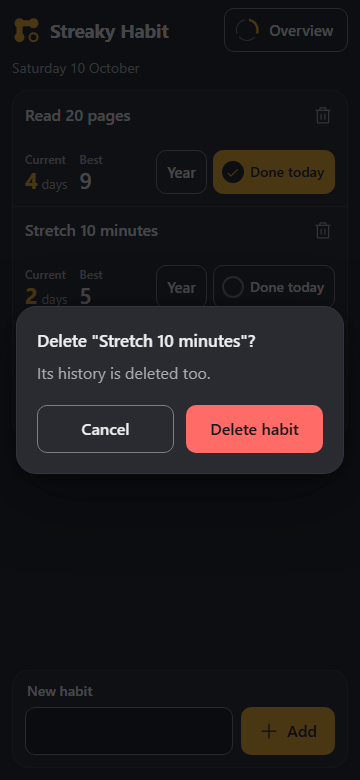
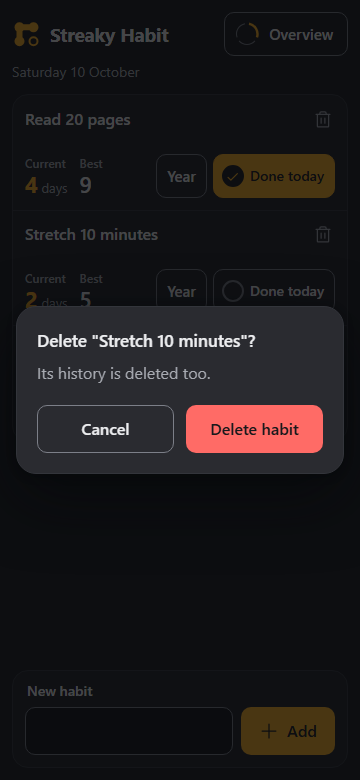
design(v1.1.0): set the phone header top to 12 px in every golden
On the owner's ruling, in system.css and every golden. The check
passes 97 of 97.

diff --git a/docs/design-explore/v1.1.0/final/day-editor.html b/docs/design-explore/v1.1.0/final/day-editor.html
@@ -20,7 +20,8 @@
    Changes from f2: (1) the Prototype states tab and its tokens are gone, so the header loses its "proto" area.
    (2) Ruling 1, a thin not-done segment on a hovered or open day draws in --ink-soft (5.17 on --raise, was 2.97).
    (3) Ruling 2, every ring and bead number is SVG text on the baseline at the shape's centre, dropped .352em, proportional figures.
-   (4) The last block stands in for showModal() in the static goldens and is not needed by the app. */
+   (4) The last block stands in for showModal() in the static goldens and is not needed by the app.
+   (5) Owner's ruling 2026-10-11, the app column's top padding on a phone is 12 px (f2 had 8 beside its tab). */
 :root{
   /* colour */
   --bg:#18191C;
@@ -107,7 +108,7 @@ svg.ph{ width:var(--icon); height:var(--icon); fill:currentColor; flex:none; }
   display:flex; flex-direction:column; gap:var(--s-3);
   height:100vh; height:100dvh; min-height:480px;
   max-width:640px; margin:0 auto;
-  padding:var(--s-2) var(--s-4) max(var(--s-3), env(safe-area-inset-bottom));
+  padding:var(--s-3) var(--s-4) max(var(--s-3), env(safe-area-inset-bottom));
 }
 .main{ flex:1; min-height:0; display:flex; flex-direction:column; gap:var(--s-3); }
 

diff --git a/docs/design-explore/v1.1.0/final/delete-dialog.html b/docs/design-explore/v1.1.0/final/delete-dialog.html
@@ -18,7 +18,8 @@
    Changes from f2: (1) the Prototype states tab and its tokens are gone, so the header loses its "proto" area.
    (2) Ruling 1, a thin not-done segment on a hovered or open day draws in --ink-soft (5.17 on --raise, was 2.97).
    (3) Ruling 2, every ring and bead number is SVG text on the baseline at the shape's centre, dropped .352em, proportional figures.
-   (4) The last block stands in for showModal() in the static goldens and is not needed by the app. */
+   (4) The last block stands in for showModal() in the static goldens and is not needed by the app.
+   (5) Owner's ruling 2026-10-11, the app column's top padding on a phone is 12 px (f2 had 8 beside its tab). */
 :root{
   /* colour */
   --bg:#18191C;
@@ -105,7 +106,7 @@ svg.ph{ width:var(--icon); height:var(--icon); fill:currentColor; flex:none; }
   display:flex; flex-direction:column; gap:var(--s-3);
   height:100vh; height:100dvh; min-height:480px;
   max-width:640px; margin:0 auto;
-  padding:var(--s-2) var(--s-4) max(var(--s-3), env(safe-area-inset-bottom));
+  padding:var(--s-3) var(--s-4) max(var(--s-3), env(safe-area-inset-bottom));
 }
 .main{ flex:1; min-height:0; display:flex; flex-direction:column; gap:var(--s-3); }
 

diff --git a/docs/design-explore/v1.1.0/final/overview-year.html b/docs/design-explore/v1.1.0/final/overview-year.html
@@ -20,7 +20,8 @@
    Changes from f2: (1) the Prototype states tab and its tokens are gone, so the header loses its "proto" area.
    (2) Ruling 1, a thin not-done segment on a hovered or open day draws in --ink-soft (5.17 on --raise, was 2.97).
    (3) Ruling 2, every ring and bead number is SVG text on the baseline at the shape's centre, dropped .352em, proportional figures.
-   (4) The last block stands in for showModal() in the static goldens and is not needed by the app. */
+   (4) The last block stands in for showModal() in the static goldens and is not needed by the app.
+   (5) Owner's ruling 2026-10-11, the app column's top padding on a phone is 12 px (f2 had 8 beside its tab). */
 :root{
   /* colour */
   --bg:#18191C;
@@ -107,7 +108,7 @@ svg.ph{ width:var(--icon); height:var(--icon); fill:currentColor; flex:none; }
   display:flex; flex-direction:column; gap:var(--s-3);
   height:100vh; height:100dvh; min-height:480px;
   max-width:640px; margin:0 auto;
-  padding:var(--s-2) var(--s-4) max(var(--s-3), env(safe-area-inset-bottom));
+  padding:var(--s-3) var(--s-4) max(var(--s-3), env(safe-area-inset-bottom));
 }
 .main{ flex:1; min-height:0; display:flex; flex-direction:column; gap:var(--s-3); }
 

diff --git a/docs/design-explore/v1.1.0/final/overview.html b/docs/design-explore/v1.1.0/final/overview.html
@@ -20,7 +20,8 @@
    Changes from f2: (1) the Prototype states tab and its tokens are gone, so the header loses its "proto" area.
    (2) Ruling 1, a thin not-done segment on a hovered or open day draws in --ink-soft (5.17 on --raise, was 2.97).
    (3) Ruling 2, every ring and bead number is SVG text on the baseline at the shape's centre, dropped .352em, proportional figures.
-   (4) The last block stands in for showModal() in the static goldens and is not needed by the app. */
+   (4) The last block stands in for showModal() in the static goldens and is not needed by the app.
+   (5) Owner's ruling 2026-10-11, the app column's top padding on a phone is 12 px (f2 had 8 beside its tab). */
 :root{
   /* colour */
   --bg:#18191C;
@@ -107,7 +108,7 @@ svg.ph{ width:var(--icon); height:var(--icon); fill:currentColor; flex:none; }
   display:flex; flex-direction:column; gap:var(--s-3);
   height:100vh; height:100dvh; min-height:480px;
   max-width:640px; margin:0 auto;
-  padding:var(--s-2) var(--s-4) max(var(--s-3), env(safe-area-inset-bottom));
+  padding:var(--s-3) var(--s-4) max(var(--s-3), env(safe-area-inset-bottom));
 }
 .main{ flex:1; min-height:0; display:flex; flex-direction:column; gap:var(--s-3); }
 

diff --git a/docs/design-explore/v1.1.0/final/states.html b/docs/design-explore/v1.1.0/final/states.html
@@ -17,7 +17,8 @@
    Changes from f2: (1) the Prototype states tab and its tokens are gone, so the header loses its "proto" area.
    (2) Ruling 1, a thin not-done segment on a hovered or open day draws in --ink-soft (5.17 on --raise, was 2.97).
    (3) Ruling 2, every ring and bead number is SVG text on the baseline at the shape's centre, dropped .352em, proportional figures.
-   (4) The last block stands in for showModal() in the static goldens and is not needed by the app. */
+   (4) The last block stands in for showModal() in the static goldens and is not needed by the app.
+   (5) Owner's ruling 2026-10-11, the app column's top padding on a phone is 12 px (f2 had 8 beside its tab). */
 :root{
   /* colour */
   --bg:#18191C;
@@ -104,7 +105,7 @@ svg.ph{ width:var(--icon); height:var(--icon); fill:currentColor; flex:none; }
   display:flex; flex-direction:column; gap:var(--s-3);
   height:100vh; height:100dvh; min-height:480px;
   max-width:640px; margin:0 auto;
-  padding:var(--s-2) var(--s-4) max(var(--s-3), env(safe-area-inset-bottom));
+  padding:var(--s-3) var(--s-4) max(var(--s-3), env(safe-area-inset-bottom));
 }
 .main{ flex:1; min-height:0; display:flex; flex-direction:column; gap:var(--s-3); }
 

diff --git a/docs/design-explore/v1.1.0/final/today-empty.html b/docs/design-explore/v1.1.0/final/today-empty.html
@@ -17,7 +17,8 @@
    Changes from f2: (1) the Prototype states tab and its tokens are gone, so the header loses its "proto" area.
    (2) Ruling 1, a thin not-done segment on a hovered or open day draws in --ink-soft (5.17 on --raise, was 2.97).
    (3) Ruling 2, every ring and bead number is SVG text on the baseline at the shape's centre, dropped .352em, proportional figures.
-   (4) The last block stands in for showModal() in the static goldens and is not needed by the app. */
+   (4) The last block stands in for showModal() in the static goldens and is not needed by the app.
+   (5) Owner's ruling 2026-10-11, the app column's top padding on a phone is 12 px (f2 had 8 beside its tab). */
 :root{
   /* colour */
   --bg:#18191C;
@@ -104,7 +105,7 @@ svg.ph{ width:var(--icon); height:var(--icon); fill:currentColor; flex:none; }
   display:flex; flex-direction:column; gap:var(--s-3);
   height:100vh; height:100dvh; min-height:480px;
   max-width:640px; margin:0 auto;
-  padding:var(--s-2) var(--s-4) max(var(--s-3), env(safe-area-inset-bottom));
+  padding:var(--s-3) var(--s-4) max(var(--s-3), env(safe-area-inset-bottom));
 }
 .main{ flex:1; min-height:0; display:flex; flex-direction:column; gap:var(--s-3); }
 

diff --git a/docs/design-explore/v1.1.0/final/today-full.html b/docs/design-explore/v1.1.0/final/today-full.html
@@ -18,7 +18,8 @@
    Changes from f2: (1) the Prototype states tab and its tokens are gone, so the header loses its "proto" area.
    (2) Ruling 1, a thin not-done segment on a hovered or open day draws in --ink-soft (5.17 on --raise, was 2.97).
    (3) Ruling 2, every ring and bead number is SVG text on the baseline at the shape's centre, dropped .352em, proportional figures.
-   (4) The last block stands in for showModal() in the static goldens and is not needed by the app. */
+   (4) The last block stands in for showModal() in the static goldens and is not needed by the app.
+   (5) Owner's ruling 2026-10-11, the app column's top padding on a phone is 12 px (f2 had 8 beside its tab). */
 :root{
   /* colour */
   --bg:#18191C;
@@ -105,7 +106,7 @@ svg.ph{ width:var(--icon); height:var(--icon); fill:currentColor; flex:none; }
   display:flex; flex-direction:column; gap:var(--s-3);
   height:100vh; height:100dvh; min-height:480px;
   max-width:640px; margin:0 auto;
-  padding:var(--s-2) var(--s-4) max(var(--s-3), env(safe-area-inset-bottom));
+  padding:var(--s-3) var(--s-4) max(var(--s-3), env(safe-area-inset-bottom));
 }
 .main{ flex:1; min-height:0; display:flex; flex-direction:column; gap:var(--s-3); }
 

diff --git a/docs/design-explore/v1.1.0/final/today.html b/docs/design-explore/v1.1.0/final/today.html
@@ -18,7 +18,8 @@
    Changes from f2: (1) the Prototype states tab and its tokens are gone, so the header loses its "proto" area.
    (2) Ruling 1, a thin not-done segment on a hovered or open day draws in --ink-soft (5.17 on --raise, was 2.97).
    (3) Ruling 2, every ring and bead number is SVG text on the baseline at the shape's centre, dropped .352em, proportional figures.
-   (4) The last block stands in for showModal() in the static goldens and is not needed by the app. */
+   (4) The last block stands in for showModal() in the static goldens and is not needed by the app.
+   (5) Owner's ruling 2026-10-11, the app column's top padding on a phone is 12 px (f2 had 8 beside its tab). */
 :root{
   /* colour */
   --bg:#18191C;
@@ -105,7 +106,7 @@ svg.ph{ width:var(--icon); height:var(--icon); fill:currentColor; flex:none; }
   display:flex; flex-direction:column; gap:var(--s-3);
   height:100vh; height:100dvh; min-height:480px;
   max-width:640px; margin:0 auto;
-  padding:var(--s-2) var(--s-4) max(var(--s-3), env(safe-area-inset-bottom));
+  padding:var(--s-3) var(--s-4) max(var(--s-3), env(safe-area-inset-bottom));
 }
 .main{ flex:1; min-height:0; display:flex; flex-direction:column; gap:var(--s-3); }
 

diff --git a/docs/design-explore/v1.1.0/final/year-view.html b/docs/design-explore/v1.1.0/final/year-view.html
@@ -19,7 +19,8 @@
    Changes from f2: (1) the Prototype states tab and its tokens are gone, so the header loses its "proto" area.
    (2) Ruling 1, a thin not-done segment on a hovered or open day draws in --ink-soft (5.17 on --raise, was 2.97).
    (3) Ruling 2, every ring and bead number is SVG text on the baseline at the shape's centre, dropped .352em, proportional figures.
-   (4) The last block stands in for showModal() in the static goldens and is not needed by the app. */
+   (4) The last block stands in for showModal() in the static goldens and is not needed by the app.
+   (5) Owner's ruling 2026-10-11, the app column's top padding on a phone is 12 px (f2 had 8 beside its tab). */
 :root{
   /* colour */
   --bg:#18191C;
@@ -106,7 +107,7 @@ svg.ph{ width:var(--icon); height:var(--icon); fill:currentColor; flex:none; }
   display:flex; flex-direction:column; gap:var(--s-3);
   height:100vh; height:100dvh; min-height:480px;
   max-width:640px; margin:0 auto;
-  padding:var(--s-2) var(--s-4) max(var(--s-3), env(safe-area-inset-bottom));
+  padding:var(--s-3) var(--s-4) max(var(--s-3), env(safe-area-inset-bottom));
 }
 .main{ flex:1; min-height:0; display:flex; flex-direction:column; gap:var(--s-3); }
 

diff --git a/docs/design-explore/v1.1.0/final/system.css b/docs/design-explore/v1.1.0/final/system.css
@@ -4,7 +4,8 @@
    Changes from f2: (1) the Prototype states tab and its tokens are gone, so the header loses its "proto" area.
    (2) Ruling 1, a thin not-done segment on a hovered or open day draws in --ink-soft (5.17 on --raise, was 2.97).
    (3) Ruling 2, every ring and bead number is SVG text on the baseline at the shape's centre, dropped .352em, proportional figures.
-   (4) The last block stands in for showModal() in the static goldens and is not needed by the app. */
+   (4) The last block stands in for showModal() in the static goldens and is not needed by the app.
+   (5) Owner's ruling 2026-10-11, the app column's top padding on a phone is 12 px (f2 had 8 beside its tab). */
 :root{
   /* colour */
   --bg:#18191C;
@@ -91,7 +92,7 @@ svg.ph{ width:var(--icon); height:var(--icon); fill:currentColor; flex:none; }
   display:flex; flex-direction:column; gap:var(--s-3);
   height:100vh; height:100dvh; min-height:480px;
   max-width:640px; margin:0 auto;
-  padding:var(--s-2) var(--s-4) max(var(--s-3), env(safe-area-inset-bottom));
+  padding:var(--s-3) var(--s-4) max(var(--s-3), env(safe-area-inset-bottom));
 }
 .main{ flex:1; min-height:0; display:flex; flex-direction:column; gap:var(--s-3); }
 

diff --git a/docs/design-explore/v1.1.0/final/SELF-CRITIQUE.md b/docs/design-explore/v1.1.0/final/SELF-CRITIQUE.md
@@ -53,7 +53,7 @@ Not visible, for the builder. Arcs are `<use>` of shared paths, ring svgs drop I
 ## Open for the owner
 1. **Horizontal ink.** `text-anchor:middle` centres the advance, not the ink. Numbers with a "1" sit up to 0.83 px left in the band, 1.05 px in P3 at 390, 0.78 px in beads. The brief's measure was vertical (ink rows), and it passes. A horizontal fix needs per-glyph offsets tied to one font, so I left it.
 2. **Desktop day cells under 44.** P2 40 by 40 and P4 42 by 44 at 1280, P3 43.1 wide at 360, all f2. WCAG 2.5.8 (24 px) is met. Larger would cost the three-months-across layout.
-3. **Phone header at 8 px from the top** now the tab is gone. It is f2's padding. A 12 px top (the desktop value) would read calmer.
+3. **Phone header at 8 px from the top** now the tab is gone. It is f2's padding. A 12 px top (the desktop value) would read calmer. **Ruled 2026-10-11, owner: 12 px.** `system.css` and every golden changed.
 
 ## Copy the brainstorm does not word (for the owner's ruling)
 

diff --git a/docs/design-explore/v1.1.0/final/system.md b/docs/design-explore/v1.1.0/final/system.md
@@ -131,7 +131,7 @@ Row and P2 numbers use tabular figures so they line up. Ring and bead numbers us
 
 | Where | Value |
 |---|---|
-| App column, phone | 8 top, 16 sides (12 under 380 px), 12 bottom or the safe area |
+| App column, phone | 12 top (owner, 2026-10-11, f2 had 8), 16 sides (12 under 380 px), 12 bottom or the safe area |
 | App column, desktop | max 1040, 12 top and bottom, 24 sides |
 | Between header, band, banners, list and composer | 12 |
 | Row padding | 12 by 14 on a phone (12 under 380), 12 with 20 on the left on a desktop |
